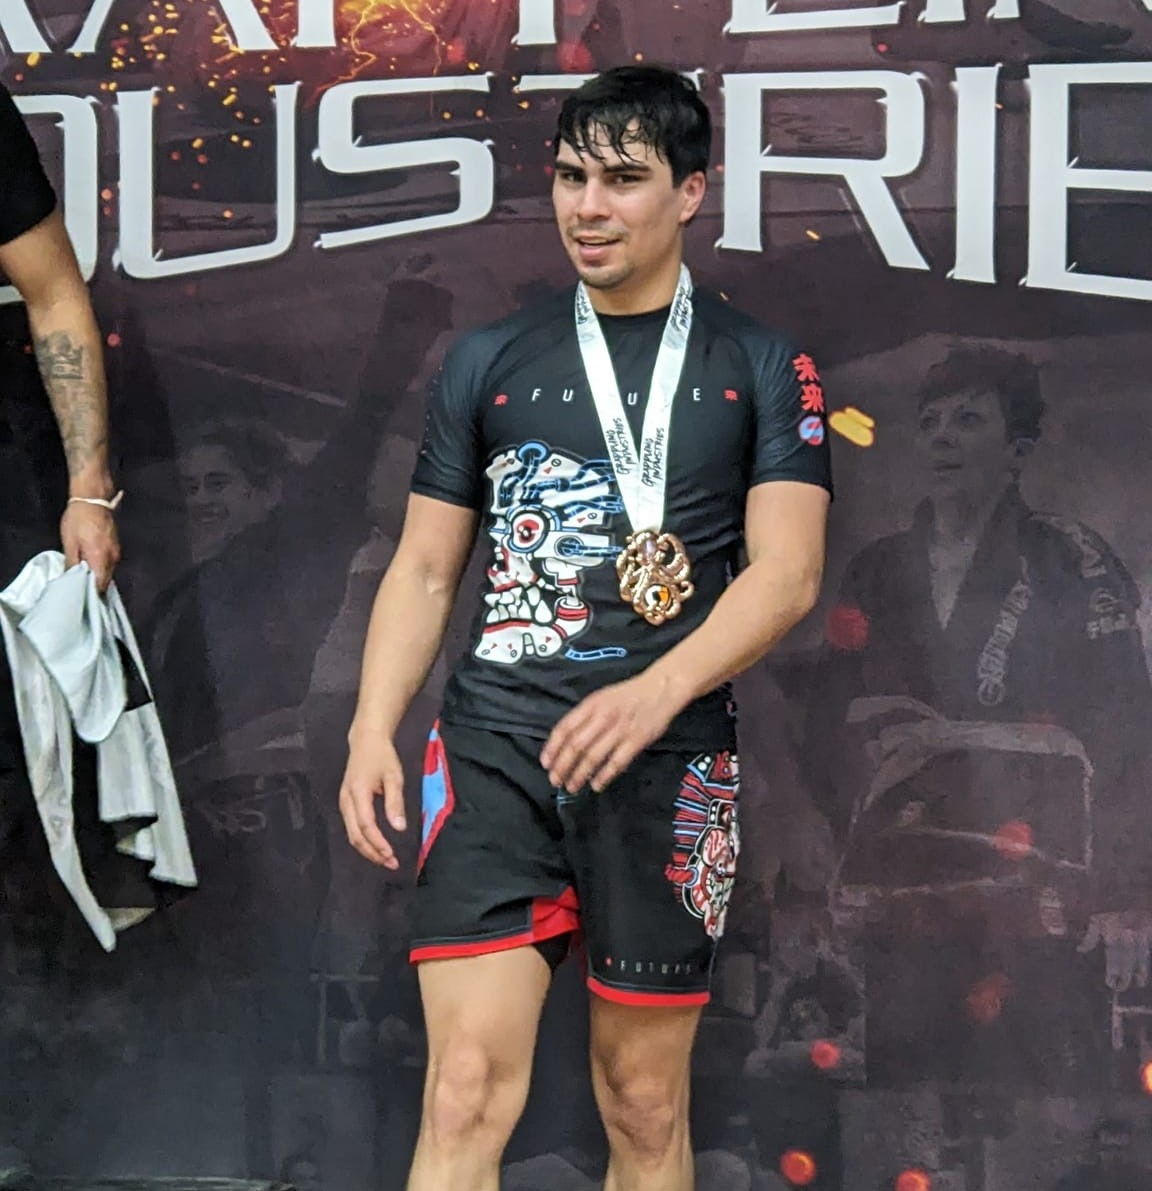
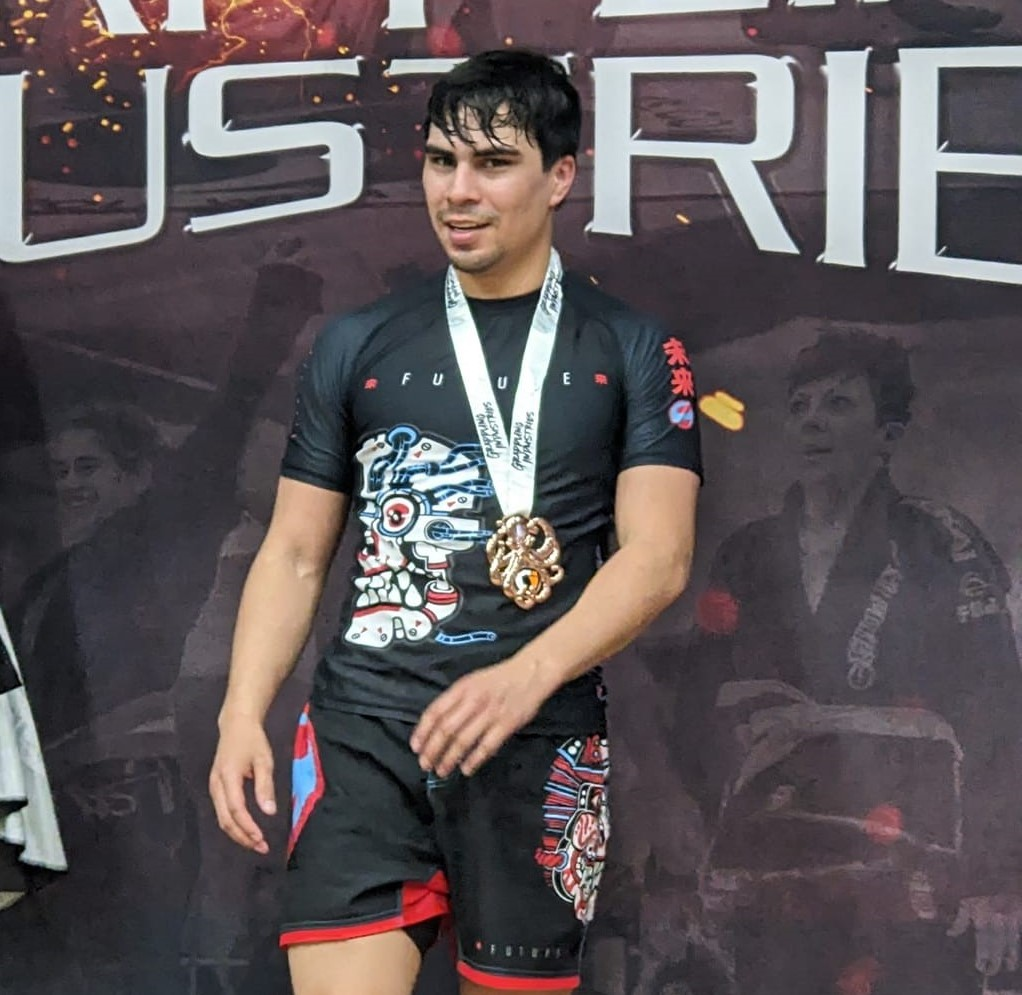
cropped about me images. adjustments to hero and headshot

diff --git a/app/ui/about/AboutMe.tsx b/app/ui/about/AboutMe.tsx
@@ -29,22 +29,22 @@ export default function AboutMe() {
                     <Image
                         src="/aboutMe/meAndPartner.jpg"
                         alt="Me and my wife."
-                        width={300}
-                        height={338}
+                        width={1331}
+                        height={1536}
                         className="rounded-3xl relative right-32 top-20 z-20 min-w-60 max-w-72 aboutImageGlow"
                     />
                     <Image
                         src="/aboutMe/meAndDoggo.jpg"
                         alt="Me and our family Chonk, I mean, Dog in a tortilla blanket."
-                        width={300}
-                        height={305}
+                        width={793}
+                        height={887}
                         className="rounded-3xl relative left-32 z-10  min-w-60 max-w-72 aboutImageGlow"
                     />
                     <Image
                         src="/aboutMe/jiuJitsuTournament.jpg"
                         alt="Me, at my 3rd Grappling Tournament at Blue Belt, getting bronze because I was late to my match against the silver metal winner."
-                        width={300}
-                        height={306}
+                        width={1022}
+                        height={995}
                         className="rounded-3xl relative right-32 bottom-20  min-w-60 max-w-72 aboutImageGlow"
                     />
                 </div>

diff --git a/app/ui/hero/Hero.tsx b/app/ui/hero/Hero.tsx
@@ -20,19 +20,6 @@ export default function Hero() {
                     <span>Software
                     </span> Engineer
                 </h2>
-                {/* <div className=' max-w-carousel min-w-carousel flex justify-between gap-6 overflow-hidden my-6 h-14'>
-                    {techstackIcons.map((icon: string) => {
-                        return (
-                            <Image
-                                src={icon}
-                                alt={icon.slice(16, 26)}
-                                width={50}
-                                height={50}
-                                key={icon}
-                            />
-                        )
-                    })}
-                </div> */}
                 <div className="carousel">
                     <TechstackCarousel />
                 </div>

diff --git a/app/ui/hero/Headshot.tsx b/app/ui/hero/Headshot.tsx
@@ -3,7 +3,7 @@ import Image from "next/image"
 export default function Headshot() {
 
     return (
-        <div className=" my-2 grid grid-cols-1 grid-rows-1 content-center px-4 py-4  rounded-3xl bg-primary heroBgGlow">
+        <div className=" my-2 grid grid-cols-1 grid-rows-1 content-center px-4 py-4  rounded-3xl bg-primary heroBgGlow relative">
             <Image
                 src="/headshot-nobg.png"
                 alt="Headshot of me, at my desk, trying to look thoughtful and professional."

diff --git a/app/globals.css b/app/globals.css
@@ -131,3 +131,9 @@ a[class*="active"] .navLine {
       transparent);
   mask: linear-gradient(90deg, transparent, white 5%, white 95%, transparent);
 }
+
+.aboutMe {
+  display: grid;
+  grid-template-columns: 1fr 1fr;
+  grid-template-rows: 1fr 4fr;
+}

diff --git a/tailwind.config.ts b/tailwind.config.ts
@@ -67,7 +67,7 @@ const config: Config = {
         'carousel': '515px'
       },
       width: {
-        'about-content': '850px'
+        'about-content': '850px',
       }
     },
   },
